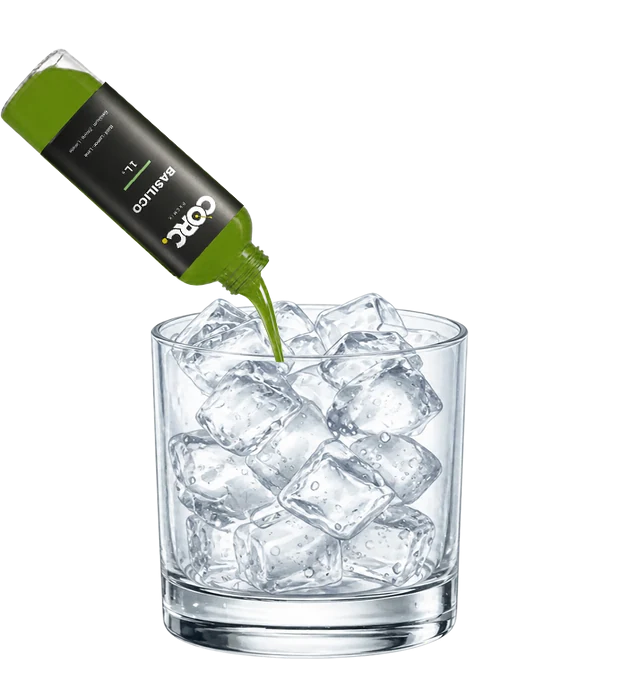
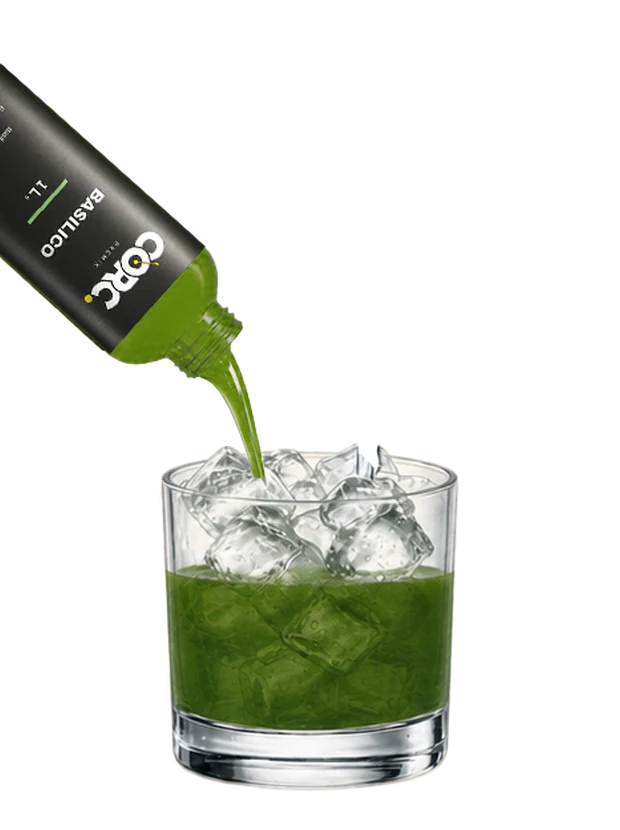
Take the supplied pour, and let the mark stir above the tasting form
The second step is now the composed pour that was sent for it: the
bottle at its proper size and the glass already filling, rather than
the small bottle over untouched ice that was standing in. All three
stills were rebuilt on one taller frame, scaled to a single glass
width and seated on a shared baseline, so the glass is the same size
and height across the row and the whole bottle fits.

The mark runs above the tasting form as it does above the CTA band:
in as a dot, two turns of the spoon, then still.

Claude-Session: https://claude.ai/code/session_01YXukmga9EVv1kzHMcfzisd

Changed region(s): [[0.0, 0.06, 0.7661, 0.96]]

diff --git a/src/lib/landing/Tasting.svelte b/src/lib/landing/Tasting.svelte
@@ -2,6 +2,7 @@
 	import SectionHeading from './SectionHeading.svelte';
 
 	import ContactForm from '#lib/ContactForm.svelte';
+	import Mark from '#lib/components/Mark.svelte';
 	import type { Locale, Messages } from '#lib/i18n/index.js';
 
 	interface Props {
@@ -17,6 +18,7 @@
 
 <section id="tasting" class="border-t border-line bg-card">
 	<div class="mx-auto max-w-6xl px-5 py-20 sm:py-24">
+		<Mark class="mx-auto mb-5 size-16" />
 		<SectionHeading eyebrow={t.tasting.eyebrow} {title} {lead} />
 		<div class="mx-auto mt-10 max-w-xl">
 			<ContactForm {lang} t={t.tasting.form} />

diff --git a/src/lib/landing/HowItWorks.svelte b/src/lib/landing/HowItWorks.svelte
@@ -42,7 +42,7 @@
 					src={images[i]}
 					alt={step.imageAlt}
 					width="620"
-					height="700"
+					height="830"
 					loading="lazy"
 					class="h-auto w-full max-w-64 object-contain"
 				/>
